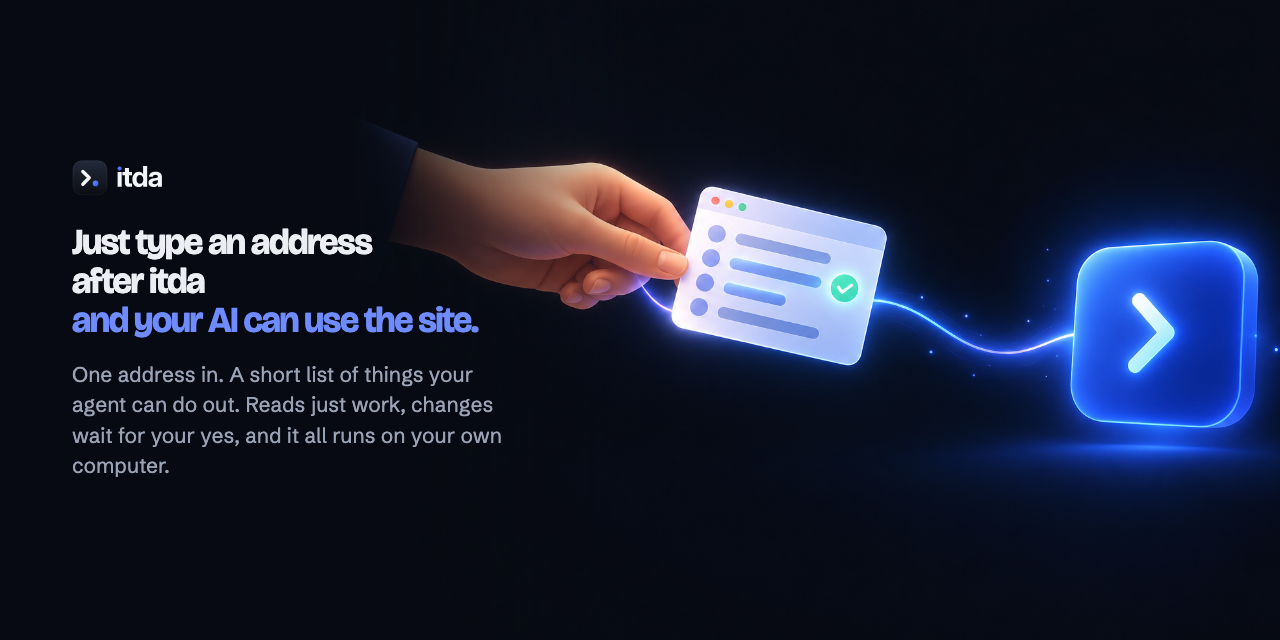
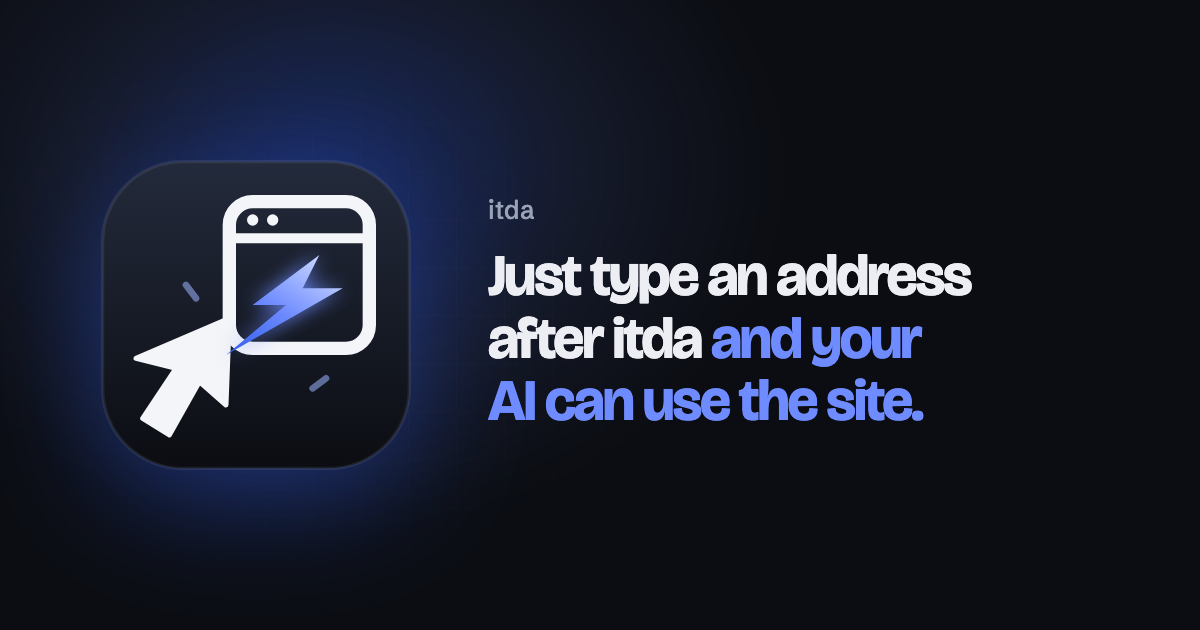
feat: make the mark a cursor striking a site and show it in the hero

diff --git a/site/style.css b/site/style.css
@@ -252,24 +252,41 @@ html[lang="ko"] .action-list li { grid-template-columns: 44px 48px 1fr auto; }
   margin: 0; padding: 18px 20px 22px; font: 13px/1.75 var(--mono); color: var(--text);
   overflow-x: auto; white-space: pre;
 }
-.term-body .l { display: inline-block; min-width: 100%; opacity: 0; animation: line .35s ease forwards; }
-.term-body .l:nth-child(1) { animation-delay: 0.2s; }
-.term-body .l:nth-child(2) { animation-delay: 1.2s; }
-.term-body .l:nth-child(3) { animation-delay: 1.3s; }
-.term-body .l:nth-child(4) { animation-delay: 1.4s; }
-.term-body .l:nth-child(5) { animation-delay: 2.3s; }
-.term-body .l:nth-child(6) { animation-delay: 2.4s; }
-.term-body .l:nth-child(7) { animation-delay: 2.5s; }
-.term-body .l:nth-child(8) { animation-delay: 2.9s; }
-.term-body .l:nth-child(9) { animation-delay: 3.6s; }
-.term-body .l:nth-child(10) { animation-delay: 3.9s; }
-.term-body .l:nth-child(11) { animation-delay: 4.1s; }
-.term-body .l:nth-child(12) { animation-delay: 4.2s; }
-.term-body .l:nth-child(13) { animation-delay: 5.3s; }
-.term-body .l:nth-child(14) { animation-delay: 5.5s; }
-.term-body .l:nth-child(15) { animation-delay: 5.7s; }
-.term-body .l:nth-child(16) { animation-delay: 5.9s; }
-@keyframes line { from { opacity: 0; transform: translateY(4px); } to { opacity: 1; transform: none; } }
+/* The transcript's lines reveal top to bottom once the cursor has struck
+   the prompt (see the hero cursor below), hold, and clear before the loop. */
+.term-body .l { display: inline-block; min-width: 100%; opacity: 0; animation: hl-1 4.8s linear infinite; animation-delay: var(--hc-t, 0s); }
+.term-body .l:nth-child(1) { animation-name: hl-1; }
+@keyframes hl-1 { 0%, 6.5% { opacity: 0; transform: translateY(3px); } 7.7%, 95% { opacity: 1; transform: none; } 98%, 100% { opacity: 0; transform: none; } }
+.term-body .l:nth-child(2) { animation-name: hl-2; }
+@keyframes hl-2 { 0%, 7.7% { opacity: 0; transform: translateY(3px); } 8.9%, 95% { opacity: 1; transform: none; } 98%, 100% { opacity: 0; transform: none; } }
+.term-body .l:nth-child(3) { animation-name: hl-3; }
+@keyframes hl-3 { 0%, 8.9% { opacity: 0; transform: translateY(3px); } 10.1%, 95% { opacity: 1; transform: none; } 98%, 100% { opacity: 0; transform: none; } }
+.term-body .l:nth-child(4) { animation-name: hl-4; }
+@keyframes hl-4 { 0%, 10.1% { opacity: 0; transform: translateY(3px); } 11.3%, 95% { opacity: 1; transform: none; } 98%, 100% { opacity: 0; transform: none; } }
+.term-body .l:nth-child(5) { animation-name: hl-5; }
+@keyframes hl-5 { 0%, 11.3% { opacity: 0; transform: translateY(3px); } 12.5%, 95% { opacity: 1; transform: none; } 98%, 100% { opacity: 0; transform: none; } }
+.term-body .l:nth-child(6) { animation-name: hl-6; }
+@keyframes hl-6 { 0%, 12.5% { opacity: 0; transform: translateY(3px); } 13.7%, 95% { opacity: 1; transform: none; } 98%, 100% { opacity: 0; transform: none; } }
+.term-body .l:nth-child(7) { animation-name: hl-7; }
+@keyframes hl-7 { 0%, 13.7% { opacity: 0; transform: translateY(3px); } 14.9%, 95% { opacity: 1; transform: none; } 98%, 100% { opacity: 0; transform: none; } }
+.term-body .l:nth-child(8) { animation-name: hl-8; }
+@keyframes hl-8 { 0%, 14.9% { opacity: 0; transform: translateY(3px); } 16.1%, 95% { opacity: 1; transform: none; } 98%, 100% { opacity: 0; transform: none; } }
+.term-body .l:nth-child(9) { animation-name: hl-9; }
+@keyframes hl-9 { 0%, 16.1% { opacity: 0; transform: translateY(3px); } 17.3%, 95% { opacity: 1; transform: none; } 98%, 100% { opacity: 0; transform: none; } }
+.term-body .l:nth-child(10) { animation-name: hl-10; }
+@keyframes hl-10 { 0%, 17.3% { opacity: 0; transform: translateY(3px); } 18.5%, 95% { opacity: 1; transform: none; } 98%, 100% { opacity: 0; transform: none; } }
+.term-body .l:nth-child(11) { animation-name: hl-11; }
+@keyframes hl-11 { 0%, 18.5% { opacity: 0; transform: translateY(3px); } 19.7%, 95% { opacity: 1; transform: none; } 98%, 100% { opacity: 0; transform: none; } }
+.term-body .l:nth-child(12) { animation-name: hl-12; }
+@keyframes hl-12 { 0%, 19.7% { opacity: 0; transform: translateY(3px); } 20.9%, 95% { opacity: 1; transform: none; } 98%, 100% { opacity: 0; transform: none; } }
+.term-body .l:nth-child(13) { animation-name: hl-13; }
+@keyframes hl-13 { 0%, 20.9% { opacity: 0; transform: translateY(3px); } 22.1%, 95% { opacity: 1; transform: none; } 98%, 100% { opacity: 0; transform: none; } }
+.term-body .l:nth-child(14) { animation-name: hl-14; }
+@keyframes hl-14 { 0%, 22.1% { opacity: 0; transform: translateY(3px); } 23.3%, 95% { opacity: 1; transform: none; } 98%, 100% { opacity: 0; transform: none; } }
+.term-body .l:nth-child(15) { animation-name: hl-15; }
+@keyframes hl-15 { 0%, 23.3% { opacity: 0; transform: translateY(3px); } 24.5%, 95% { opacity: 1; transform: none; } 98%, 100% { opacity: 0; transform: none; } }
+.term-body .l:nth-child(16) { animation-name: hl-16; }
+@keyframes hl-16 { 0%, 24.5% { opacity: 0; transform: translateY(3px); } 25.7%, 95% { opacity: 1; transform: none; } 98%, 100% { opacity: 0; transform: none; } }
 .term-body b.p { color: var(--blue-hi); font-weight: 500; }
 .term-body b.you { color: var(--green); }
 .term-body i { color: var(--faint); font-style: normal; }
@@ -468,6 +485,70 @@ h3 { margin: 0 0 8px; font-size: 18px; letter-spacing: -.01em; }
   .term-body .l { animation: none; opacity: 1; }
   .progress i { animation: none; width: 100%; }
   .btn, .pack { transition: none; }
+}
+
+/* The hero cursor: the arrow from the mark flies in from the lower left,
+   strikes the prompt (the bolt flashes, the transcript appears), jumps to the
+   About window and strikes once more (its title bar lights), then holds.
+   One 4.8 s period shared by every piece; transform and opacity only.
+   --hc-t shifts every clock together (used by the frame captures). */
+.desk {
+  --hc-start: translate(-6%, 106%);
+  --hc-prompt: translate(252px, 172px);
+  --hc-about: translate(262px, 11px);
+}
+.hero-cursor { position: absolute; inset: 0; width: 100%; height: 100%; overflow: visible; z-index: 40; pointer-events: none; }
+.hc { transform-box: view-box; transform-origin: 0 0; filter: drop-shadow(0 4px 10px rgba(0,0,0,.6)); }
+.hc-cur, .hc-trail { opacity: 0; transform: var(--hc-start); animation-fill-mode: both; }
+.hc-cur { animation: hc-move 4.8s linear infinite both, hc-show 4.8s linear infinite both; animation-delay: var(--hc-t, 0s); }
+.hc-trail { animation: hc-move 4.8s linear infinite both, hc-trail 4.8s linear infinite both; }
+.hc-t1 { animation-delay: calc(var(--hc-t, 0s) + .05s); }
+.hc-t2 { animation-delay: calc(var(--hc-t, 0s) + .1s); }
+.hc-strike { transform-box: view-box; transform-origin: 0 0; opacity: 0; animation: hc-strike 4.8s linear infinite; animation-delay: var(--hc-t, 0s); }
+@keyframes hc-move {
+  0% { transform: var(--hc-start); animation-timing-function: cubic-bezier(.15, .85, .25, 1); }
+  5.2%, 29% { transform: var(--hc-prompt); animation-timing-function: cubic-bezier(.3, .8, .2, 1); }
+  34.2%, 97.4% { transform: var(--hc-about); }
+  97.5%, 100% { transform: var(--hc-start); }
+}
+@keyframes hc-show { 0% { opacity: 0; } 1.5%, 94% { opacity: 1; } 97%, 100% { opacity: 0; } }
+@keyframes hc-trail {
+  0%, .8% { opacity: 0; } 1.6%, 4.6% { opacity: .5; } 6.5%, 28.8% { opacity: 0; }
+  29.6%, 33.6% { opacity: .5; } 35.5%, 100% { opacity: 0; }
+}
+@keyframes hc-strike {
+  0%, 5.2% { opacity: 0; transform: scale(.5); }
+  5.8% { opacity: 1; transform: scale(1.5); }
+  8%, 34.2% { opacity: 0; transform: scale(.6); }
+  34.8% { opacity: 1; transform: scale(1.5); }
+  37.3%, 100% { opacity: 0; transform: scale(.6); }
+}
+.desk .about .bar, .desk .actions .bar { position: relative; }
+.desk .about .bar::after, .desk .actions .bar::after {
+  content: ""; position: absolute; inset: 0; pointer-events: none;
+  background: linear-gradient(180deg, rgba(110,139,255,.6), rgba(47,91,234,.45));
+  opacity: 0;
+}
+.desk .about .bar::after { animation: hc-light 4.8s linear infinite; animation-delay: var(--hc-t, 0s); }
+@keyframes hc-light { 0%, 34.2% { opacity: 0; } 34.6%, 36.4% { opacity: 1; } 37.5%, 100% { opacity: 0; } }
+@media (max-width: 960px) {
+  /* The desk is a stack here and About is hidden: the second strike lands on
+     the actions window instead. */
+  .desk { --hc-prompt: translate(252px, 69px); --hc-about: translate(60%, calc(100% - 250px)); }
+  .desk .about .bar::after { animation: none; }
+  .desk .actions .bar::after { animation: hc-light 4.8s linear infinite; animation-delay: var(--hc-t, 0s); }
+}
+@media (max-width: 640px) {
+  .desk { --hc-prompt: translate(218px, 64px); --hc-about: translate(60%, calc(100% - 102px)); }
+}
+.desk.off *, .desk.off *::after,
+.desk.off .about .bar::after, .desk.off .actions .bar::after { animation-play-state: paused; }
+@media (prefers-reduced-motion: reduce) {
+  /* No movement: the cursor rests at the prompt with the bolt as a still. */
+  .hc-trail { display: none; }
+  .hc-cur, .hc-strike, .desk .about .bar::after, .desk .actions .bar::after { animation: none; }
+  .hc-cur { transform: var(--hc-prompt); opacity: 1; }
+  .hc-strike { opacity: 1; transform: none; }
 }
 
 /* The setup transcript has long lines: they scroll inside the window on

diff --git a/assets/social.html b/assets/social.html
@@ -1,0 +1,52 @@
+<!doctype html>
+<html lang="en">
+<head>
+<meta charset="utf-8">
+<title>itda link preview</title>
+<!--
+  Renders assets/social.png (1200x630, the link preview) from assets/logo.svg.
+  From the repository root:
+
+    sh assets/src/banner.sh
+-->
+<link rel="preconnect" href="https://fonts.googleapis.com">
+<link rel="preconnect" href="https://fonts.gstatic.com" crossorigin>
+<link href="https://fonts.googleapis.com/css2?family=Bricolage+Grotesque:opsz,wght@12..96,700&family=Schibsted+Grotesk:wght@400;500&display=swap" rel="stylesheet">
+<style>
+  :root { --ink: #0B0D12; --text: #ECEEF3; --muted: #9AA3B5; --blue-hi: #6E8BFF; }
+  html, body { margin: 0; background: var(--ink); color: var(--text); }
+  .frame { position: relative; width: 1200px; height: 630px; overflow: hidden; background: var(--ink); }
+  .glow {
+    position: absolute; width: 900px; height: 700px; left: -120px; top: -180px;
+    background: radial-gradient(closest-side, rgba(47, 91, 234, .36), rgba(110, 139, 255, .10) 55%, transparent);
+    filter: blur(24px);
+  }
+  .grid {
+    position: absolute; inset: 0; opacity: .5;
+    background-image: linear-gradient(rgba(255,255,255,.045) 1px, transparent 1px), linear-gradient(90deg, rgba(255,255,255,.045) 1px, transparent 1px);
+    background-size: 48px 48px; background-position: 24px 27px;
+    mask-image: radial-gradient(closest-side at 30% 50%, #000, transparent);
+    -webkit-mask-image: radial-gradient(closest-side at 30% 50%, #000, transparent);
+  }
+  .mark { position: absolute; left: 96px; top: 50%; width: 320px; height: 320px; transform: translateY(-50%); filter: drop-shadow(0 30px 60px rgba(47,91,234,.45)); }
+  .copy { position: absolute; left: 488px; top: 50%; transform: translateY(-50%); width: 640px; }
+  .name { margin: 0 0 22px; font: 500 26px/1 "Schibsted Grotesk", sans-serif; color: var(--muted); letter-spacing: .01em; }
+  h1 {
+    margin: 0; font: 700 58px/1.08 "Bricolage Grotesque", sans-serif; letter-spacing: -.035em;
+    font-variation-settings: "opsz" 96; text-wrap: balance;
+  }
+  h1 em { font-style: normal; color: var(--blue-hi); }
+</style>
+</head>
+<body>
+<div class="frame">
+  <div class="glow"></div>
+  <div class="grid"></div>
+  <img class="mark" src="logo.svg" alt="">
+  <div class="copy">
+    <p class="name">itda</p>
+    <h1>Just type an address after itda <em>and your AI can use the site.</em></h1>
+  </div>
+</div>
+</body>
+</html>

diff --git a/site/index.html b/site/index.html
@@ -124,6 +124,26 @@
               <small><span data-i18n="win.setup.done">Done</span> · 5/5</small>
             </div>
           </div>
+          <!-- The cursor from the mark flies in, strikes the prompt, the transcript
+               appears, then it strikes the About window. Outlines come from
+               assets/logo.svg via assets/src/mark.py; motion is in style.css. -->
+          <svg class="hero-cursor" aria-hidden="true" focusable="false">
+            <defs>
+              <linearGradient id="hc-volt" x1="0" y1="1" x2=".8" y2="0"><stop offset="0" stop-color="#2F5BEA"/><stop offset=".5" stop-color="#6E8BFF"/><stop offset="1" stop-color="#C9D6FF"/></linearGradient>
+              <filter id="hc-glow" x="-80%" y="-80%" width="260%" height="260%"><feGaussianBlur stdDeviation="4"/></filter>
+              <path id="hc-arrow" d="M40 49L39 75L31 68L22 84L14 79L24 64L12 61Z" fill="#F4F5F8" stroke="#F4F5F8" stroke-width="1.5" stroke-linejoin="round"/>
+              <path id="hc-bolt" d="M67 30L47 45H57L39 60L74 40H62Z"/>
+            </defs>
+            <g class="hc hc-trail hc-t2"><use href="#hc-arrow" transform="scale(1.25) translate(-40 -49)" opacity=".5"/></g>
+            <g class="hc hc-trail hc-t1"><use href="#hc-arrow" transform="scale(1.25) translate(-40 -49)"/></g>
+            <g class="hc hc-cur">
+              <g class="hc-strike">
+                <use href="#hc-bolt" transform="scale(1.25) translate(-40 -49)" fill="#6E8BFF" opacity=".9" filter="url(#hc-glow)"/>
+                <use href="#hc-bolt" transform="scale(1.25) translate(-40 -49)" fill="url(#hc-volt)"/>
+              </g>
+              <use href="#hc-arrow" transform="scale(1.25) translate(-40 -49)"/>
+            </g>
+          </svg>
         </div>
       </div>
     </section>

diff --git a/assets/src/banner.html b/assets/src/banner.html
@@ -4,13 +4,13 @@
 <meta charset="utf-8">
 <title>itda banner</title>
 <!--
-  Renders assets/social.png, assets/hero.png and assets/hero.ko.png from
-  assets/handoff.png. From the repository root:
+  Renders assets/hero.png and assets/hero.ko.png from assets/handoff.png
+  (the link preview, assets/social.png, comes from assets/social.html). From
+  the repository root:
 
     sh assets/src/banner.sh
 
-  ?v=social is 1280x640 (the link preview); ?v=hero is 1600x700, captured at
-  2x; &lang=ko switches the words.
+  ?v=hero is 1600x700, captured at 2x; &lang=ko switches the words.
 -->
 <link rel="preconnect" href="https://fonts.googleapis.com">
 <link rel="preconnect" href="https://fonts.gstatic.com" crossorigin>

diff --git a/site/main.js b/site/main.js
@@ -116,6 +116,12 @@ if (clock) {
   tick();
   setInterval(tick, 1000);
 }
+const desk = document.querySelector(".desk");
+if (desk && "IntersectionObserver" in window) {
+  // The cursor, the transcript and the title-bar flash only run while the
+  // desk is on screen; the class pauses every animation in it.
+  new IntersectionObserver(([entry]) => desk.classList.toggle("off", !entry.isIntersecting)).observe(desk);
+}
 const wins = [...document.querySelectorAll("[data-win]")];
 let zTop = 10;
 const drag = window.matchMedia("(min-width: 961px) and (pointer: fine)");

diff --git a/assets/src/flow.py b/assets/src/flow.py
@@ -79,6 +79,9 @@ MONO = ("ui-monospace, SFMono-Regular, Menlo, Consolas, 'JetBrains Mono', "
         "'D2Coding', 'Noto Sans Mono CJK KR', monospace")
 
 
+LOGO = Path(__file__).resolve().parents[2] / "assets" / "logo.svg"
+
+
 def width(text, size):
     """Rough rendered width, enough to size bubbles around their text."""
     return sum(size * (1.0 if ord(c) >= 0x1100 else 0.56) for c in text)
@@ -131,6 +134,18 @@ class Anim:
             (t0 + 0.15, "opacity:.7;transform:scale(.95)"),
             (t0 + 0.8, "opacity:0;transform:scale(1.25)"),
         ])
+
+
+def mark_defs():
+    """The gradients and the glow of the tile mark, from assets/logo.svg."""
+    svg = LOGO.read_text(encoding="utf-8")
+    return svg[svg.index("<defs>") + len("<defs>") : svg.index("</defs>")].strip()
+
+
+def mark():
+    """The tile mark's shapes, from assets/logo.svg, in its own 96 box."""
+    svg = LOGO.read_text(encoding="utf-8")
+    return svg[svg.index("</defs>") + len("</defs>") : svg.rindex("</svg>")].strip()
 
 
 def build(s):
@@ -261,11 +276,7 @@ def build(s):
     for t0, color in ((4.3, "#6E8BFF"), (7.85, "#3DD68C"), (12.75, "#3DD68C")):
         k = a.pulse(t0)
         w(f'<circle class="{k} origin" cx="480" cy="144" r="44" fill="none" stroke="{color}" stroke-width="2"/>')
-    w('<g transform="translate(444 108) scale(.75)">'
-      '<rect x="2" y="2" width="92" height="92" rx="24" fill="url(#m-bg)"/>'
-      '<rect x="2.5" y="2.5" width="91" height="91" rx="23.5" fill="none" stroke="#fff" stroke-opacity=".1"/>'
-      '<path d="M29 31 L46 48 L29 65" fill="none" stroke="#F4F5F8" stroke-width="9" stroke-linecap="round" stroke-linejoin="round"/>'
-      '<circle cx="63" cy="63" r="7.5" fill="url(#m-dot)"/></g>')
+    w(f'<g transform="translate(444 108) scale(.75)">{mark()}</g>')
     k = a.add([(11.15, "opacity:0"), (11.35, "opacity:1"), (12.6, "opacity:1"), (12.8, "opacity:0")])
     w(f'<g class="{k}"><circle cx="480" cy="144" r="44" fill="#F5B041" fill-opacity=".08" stroke="#F5B041" stroke-width="2" stroke-dasharray="5 5"/>'
       '<rect x="502" y="160" width="22" height="22" rx="7" fill="#F5B041"/>'
@@ -372,8 +383,7 @@ def build(s):
     head = f"""<svg xmlns="http://www.w3.org/2000/svg" width="960" height="440" viewBox="0 0 960 440" role="img" aria-label="{esc(s['title'])}" lang="{s['lang']}">
 <title>{esc(s['title'])}</title>
 <defs>
-<linearGradient id="m-bg" x1="0" y1="0" x2="0" y2="1"><stop offset="0" stop-color="#232A3B"/><stop offset="1" stop-color="#0B0D12"/></linearGradient>
-<linearGradient id="m-dot" x1="0" y1="0" x2="1" y2="1"><stop offset="0" stop-color="#6E8BFF"/><stop offset="1" stop-color="#2F5BEA"/></linearGradient>
+{mark_defs()}
 <radialGradient id="bg-glow" cx=".5" cy="0" r=".7"><stop offset="0" stop-color="#2F5BEA" stop-opacity=".22"/><stop offset="1" stop-color="#2F5BEA" stop-opacity="0"/></radialGradient>
 <filter id="glow" x="-200%" y="-200%" width="500%" height="500%"><feGaussianBlur stdDeviation="2.5" result="b"/><feMerge><feMergeNode in="b"/><feMergeNode in="SourceGraphic"/></feMerge></filter>
 <filter id="shadow" x="-20%" y="-40%" width="140%" height="200%"><feDropShadow dx="0" dy="10" stdDeviation="12" flood-color="#000" flood-opacity=".6"/></filter>

diff --git a/assets/src/mark.py b/assets/src/mark.py
@@ -1,0 +1,51 @@
+"""Stamps the tile mark from assets/logo.svg into the files that carry a copy.
+
+assets/logo.svg is the one master. The wordmarks keep their letterforms and
+take the tile from it; the hero cursor on the landing takes the cursor and
+bolt outlines. Run from anywhere:
+
+    python3 assets/src/mark.py
+
+Then `python3 assets/src/flow.py`, which reads the master itself.
+"""
+
+import re
+from pathlib import Path
+
+ROOT = Path(__file__).resolve().parents[2]
+LOGO = ROOT / "assets" / "logo.svg"
+MARK = re.compile(r"<!-- mark -->.*?<!-- /mark -->", re.S)
+
+
+def tile(prefix, edge):
+    svg = LOGO.read_text(encoding="utf-8")
+    inner = svg[svg.index("<defs>") : svg.rindex("</svg>")]
+    inner = inner.replace('id="m-', f'id="{prefix}-').replace("url(#m-", f"url(#{prefix}-")
+    inner = re.sub(r'(class="tile"[^>]*stroke-opacity=")[^"]*', rf"\g<1>{edge}", inner)
+    return f"<!-- mark -->{inner.strip()}<!-- /mark -->"
+
+
+def outline(cls):
+    match = re.search(rf'class="{cls}" d="([^"]+)"', LOGO.read_text(encoding="utf-8"))
+    return match.group(1)
+
+
+def stamp(path, replacement):
+    text = path.read_text(encoding="utf-8")
+    if not MARK.search(text):
+        raise SystemExit(f"{path}: no <!-- mark --> ... <!-- /mark --> to stamp into")
+    path.write_text(MARK.sub(lambda _: replacement, text, count=1), encoding="utf-8")
+
+
+def main():
+    stamp(ROOT / "assets" / "wordmark-dark.svg", tile("lk", ".14"))
+    stamp(ROOT / "assets" / "wordmark-light.svg", tile("lk", ".08"))
+    index = ROOT / "site" / "index.html"
+    html = index.read_text(encoding="utf-8")
+    for cls, target in (("cursor", "hc-arrow"), ("bolt", "hc-bolt")):
+        html = re.sub(rf'(id="{target}" d=")[^"]*', rf"\g<1>{outline(cls)}", html)
+    index.write_text(html, encoding="utf-8")
+
+
+if __name__ == "__main__":
+    main()
